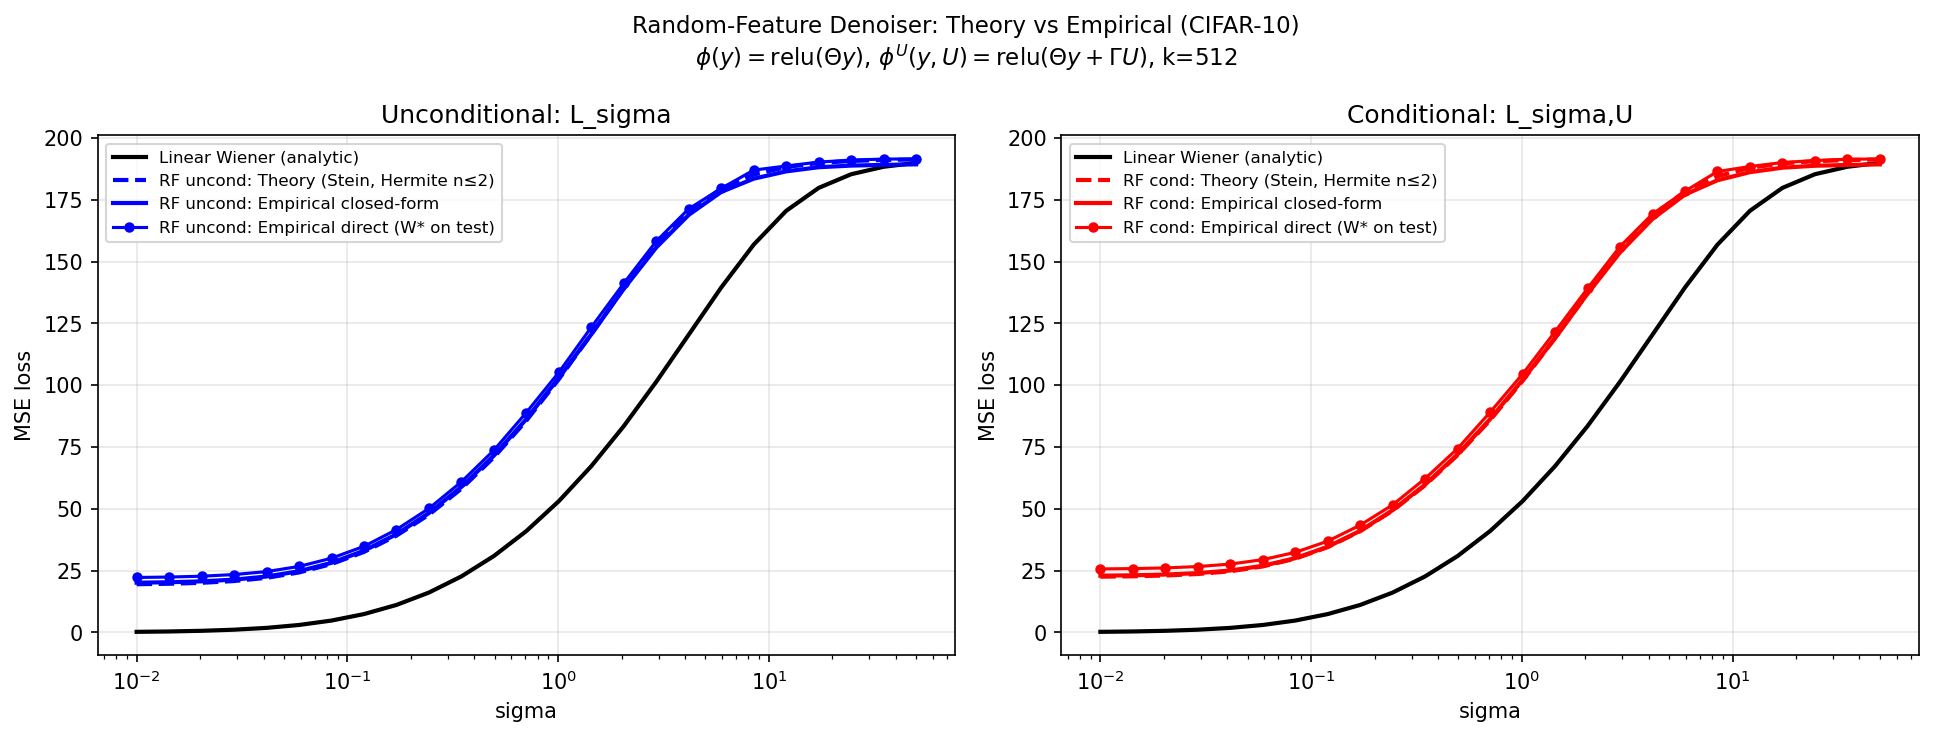
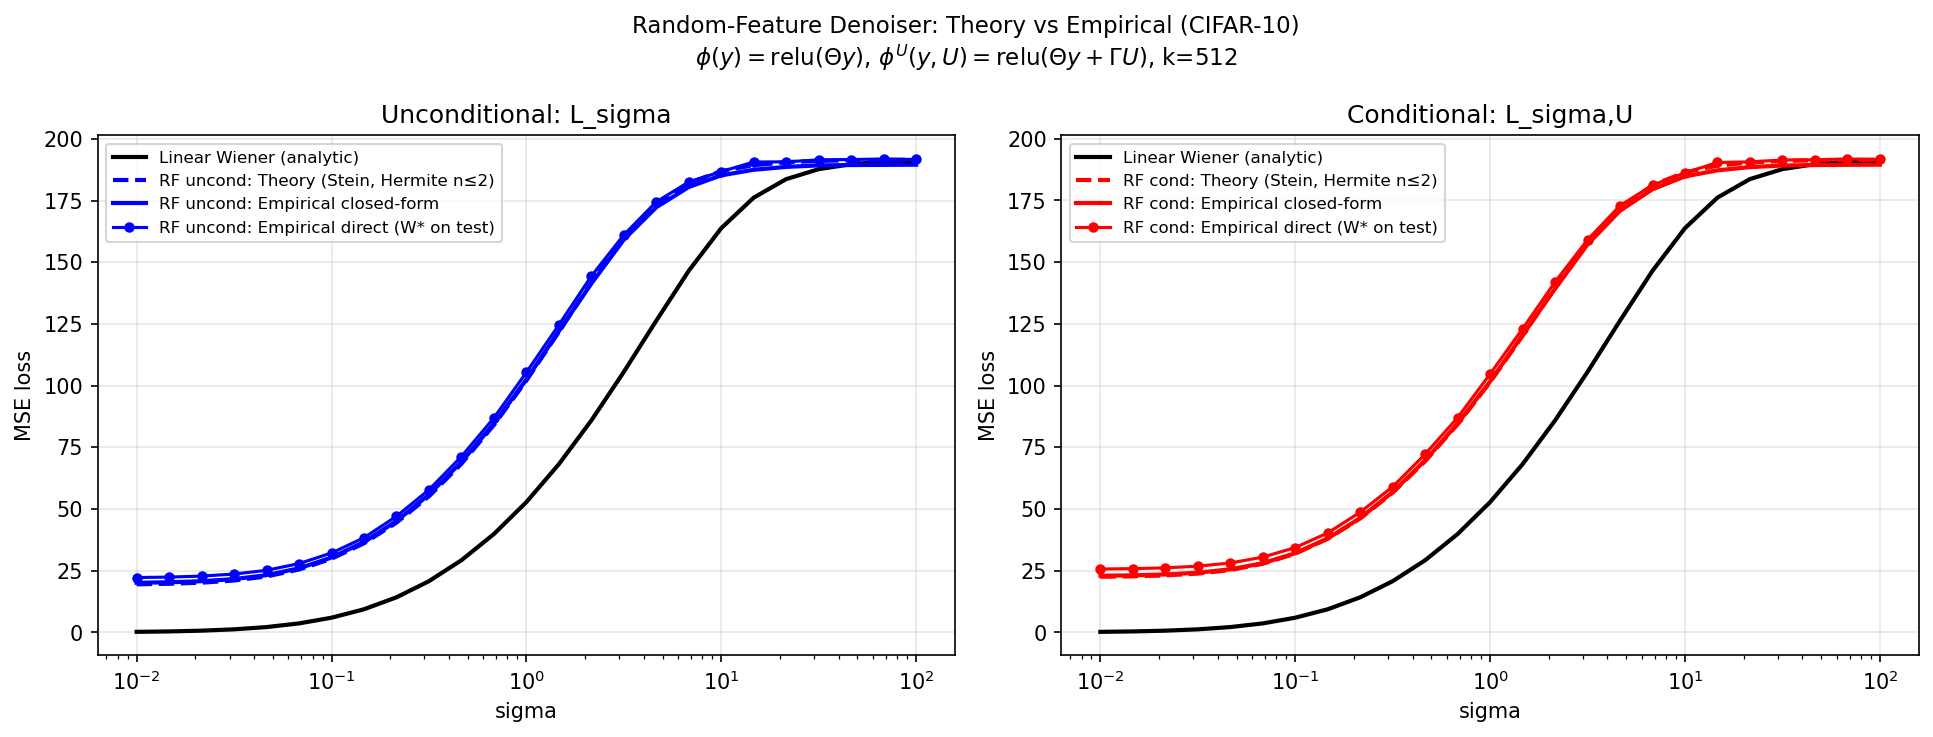
update: extend sigma range to 100 in rf_theory_vs_empirical plot

diff --git a/scripts/rf_theory_vs_empirical.py b/scripts/rf_theory_vs_empirical.py
@@ -44,7 +44,7 @@ N_NOISE   = 5       # noise draws per image for empirical estimate
 LAM       = 1e-4    # ridge regularization
 N_SIGMA   = 25
 SIGMA_MIN = 0.01
-SIGMA_MAX = 50.0
+SIGMA_MAX = 100.0
 N_CLASSES = 10
 
 # ---------------------------------------------------------------------------